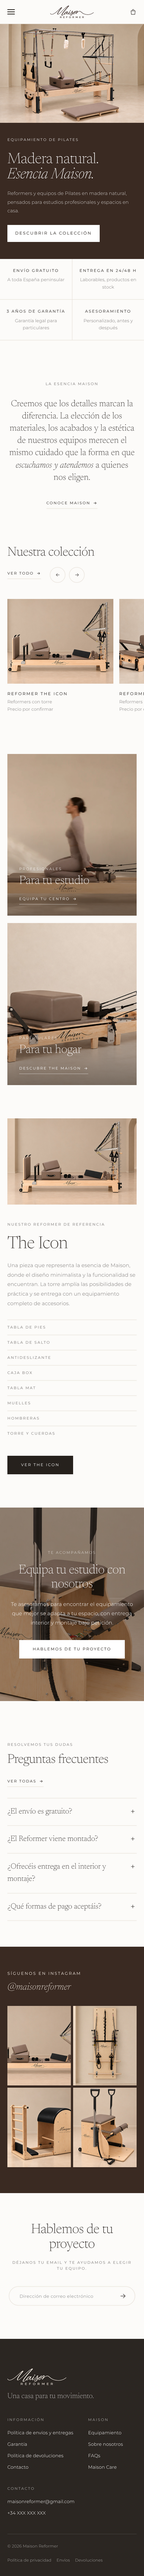
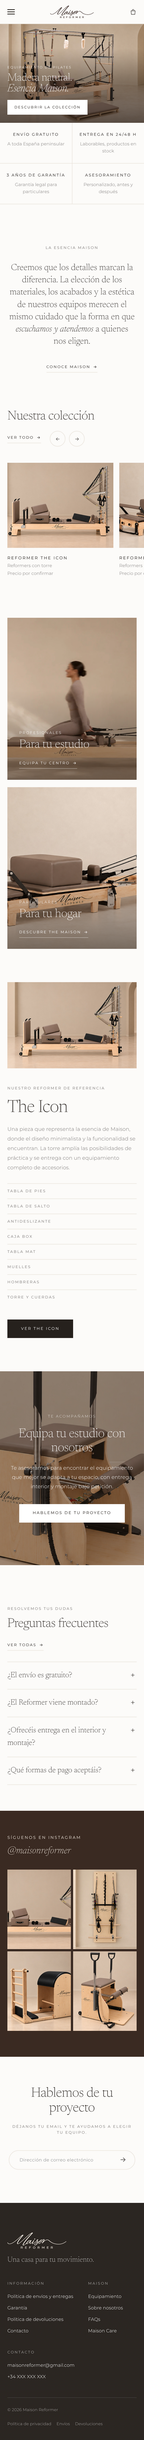
Móvil: titular encima de la foto principal, sin bloque marrón
Tema WordPress 1.8.0.

Claude-Session: https://claude.ai/code/session_01Kmjfpmw6MBJZFRJkHNTaPT

diff --git a/wordpress/maison-reformer/style.css b/wordpress/maison-reformer/style.css
@@ -3,7 +3,7 @@ Theme Name: Maison Reformer
 Theme URI: https://maisonreformer.com
 Author: Neris Studio
 Description: Tema a medida para Maison Reformer, equipamiento de Pilates en madera natural. Compatible con WooCommerce. Incluye importador de contenido en Apariencia → Maison Reformer.
-Version: 1.7.0
+Version: 1.8.0
 Requires at least: 6.2
 Requires PHP: 7.4
 WC requires at least: 8.0
@@ -756,6 +756,21 @@ strong, b { font-weight: 500; }
   .hero img.hero-img { aspect-ratio: 1491 / 1024; object-position: 50% 50%; }
 }
 .scroll-cue { display: none; }
+
+/* v9 · Móvil: sin bloque marrón, el texto va encima de la foto */
+@media (max-width: 760px) {
+  .hero { background: transparent; display: block; }
+  .hero::after { display: block; background: linear-gradient(0deg, rgba(35, 26, 19, .72) 0%, rgba(35, 26, 19, .35) 45%, rgba(35, 26, 19, 0) 75%); }
+  .hero-text { position: absolute; inset: 0; z-index: 1; justify-content: flex-end; padding: 0 var(--gutter) 22px; }
+  .hero .hero-eyebrow { font-size: 9px; margin-bottom: 8px; }
+  .hero h1 { font-size: clamp(28px, 7.4vw, 40px); }
+  .hero .hero-lead { font-size: 12px; line-height: 1.6; margin: 10px 0 14px; max-width: 420px; }
+  .hero-actions .btn { height: 40px; padding: 0 18px; font-size: 9.5px; }
+}
+@media (max-width: 480px) {
+  .hero .hero-lead { display: none; }
+  .hero-actions { margin-top: 14px; }
+}
 
 /* =========================================================================
    WordPress

diff --git a/maison-reformer/css/style.css b/maison-reformer/css/style.css
@@ -743,3 +743,18 @@ strong, b { font-weight: 500; }
   .hero img.hero-img { aspect-ratio: 1491 / 1024; object-position: 50% 50%; }
 }
 .scroll-cue { display: none; }
+
+/* v9 · Móvil: sin bloque marrón, el texto va encima de la foto */
+@media (max-width: 760px) {
+  .hero { background: transparent; display: block; }
+  .hero::after { display: block; background: linear-gradient(0deg, rgba(35, 26, 19, .72) 0%, rgba(35, 26, 19, .35) 45%, rgba(35, 26, 19, 0) 75%); }
+  .hero-text { position: absolute; inset: 0; z-index: 1; justify-content: flex-end; padding: 0 var(--gutter) 22px; }
+  .hero .hero-eyebrow { font-size: 9px; margin-bottom: 8px; }
+  .hero h1 { font-size: clamp(28px, 7.4vw, 40px); }
+  .hero .hero-lead { font-size: 12px; line-height: 1.6; margin: 10px 0 14px; max-width: 420px; }
+  .hero-actions .btn { height: 40px; padding: 0 18px; font-size: 9.5px; }
+}
+@media (max-width: 480px) {
+  .hero .hero-lead { display: none; }
+  .hero-actions { margin-top: 14px; }
+}

diff --git a/wordpress/maison-reformer/functions.php b/wordpress/maison-reformer/functions.php
@@ -7,7 +7,7 @@
 
 defined( 'ABSPATH' ) || exit;
 
-define( 'MAISON_VERSION', '1.7.0' );
+define( 'MAISON_VERSION', '1.8.0' );
 define( 'MAISON_DIR', get_template_directory() );
 define( 'MAISON_URI', get_template_directory_uri() );
 
